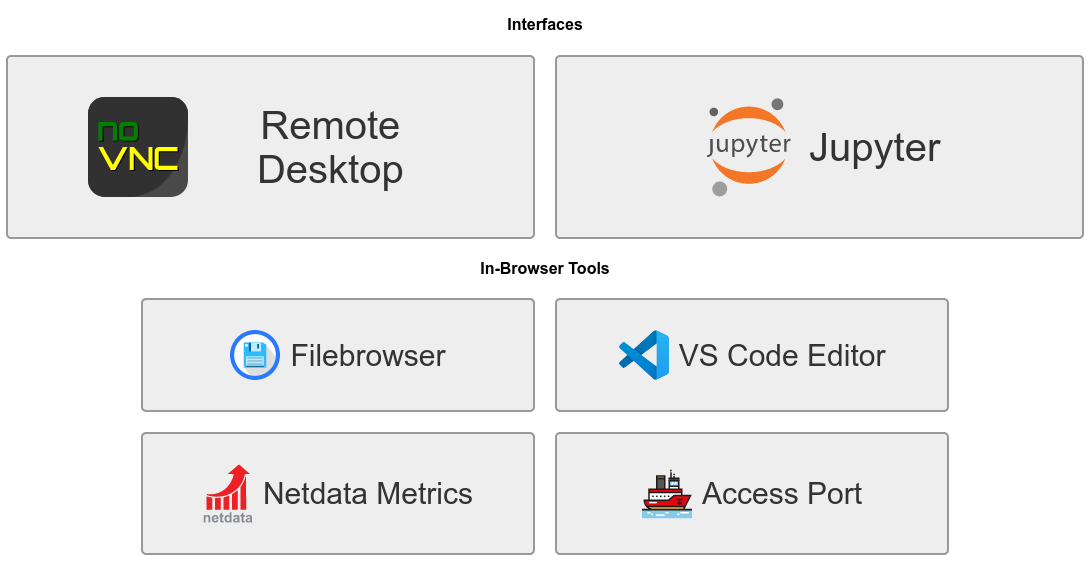
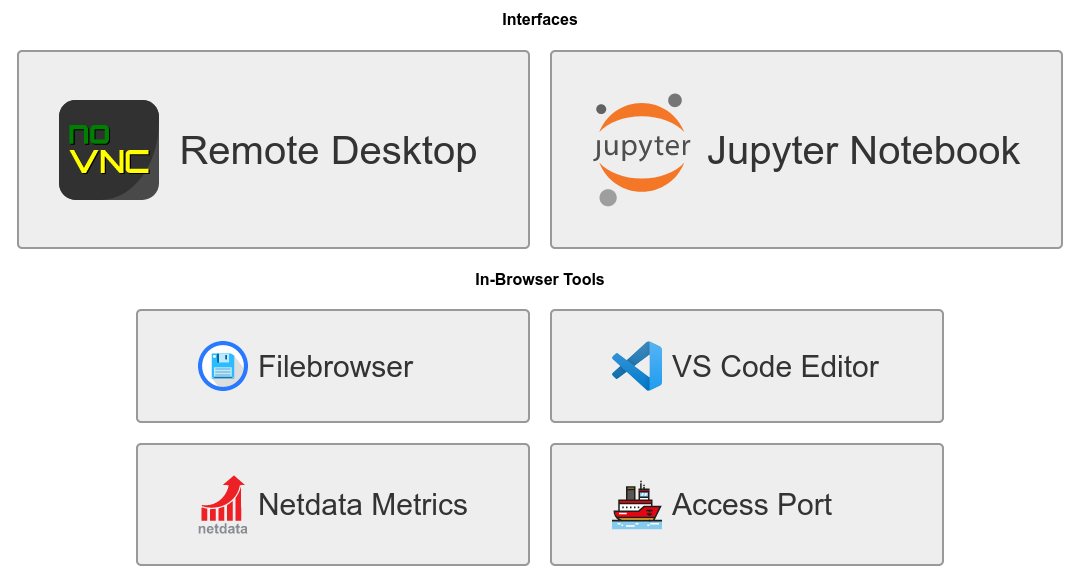
feat(remote-desktop-en): sections, update landing page

diff --git a/docs/en/1-Experiments/Remote-Desktop.md b/docs/en/1-Experiments/Remote-Desktop.md
@@ -1,43 +1,61 @@
-# Remote-Desktop
+# Remote Desktop
 
-![The Remote Desktop](../images/rd_desktop.png)
+![Remote Desktop](../images/rd_desktop.png)
 
-The Remote Desktop provides an in-browser GUI Ubuntu desktop experience as well
-as quick access to supporting tools.
+# What is Remote Desktop?
+
+Remote Desktop provides an in-browser GUI Ubuntu desktop experience as well as
+quick access to supporting tools. The operating system is
+[**Ubuntu**](https://ubuntu.com/about) **18.04** with the
+[**XFCE**](https://www.xfce.org/about) desktop environment.
+
+## Versions
 
 Two versions of Remote Desktop are available. _R_ includes R and RStudio.
 _Geomatics_ extends _R_ with QGIS and various supporting libraries. You may
 further customize your Remote Desktop workspace to suit your specific needs and
 preferences.
 
-_pip_, _conda_, and _npm_ are available to install various packages.
+## Customization
+
+_pip_, _conda_, _npm_ and _yarn_ are available to install various packages.
+
+# Accessing the Remote Desktop
 
 To launch the Remote Desktop or any of its supporting tools, create a Notebook
 Server in [Kubeflow](./Kubeflow.md) and select one of the available versions in
-the image dropdown. Then, connect to access the landing page.
+the image dropdown. Then, click `Connect` to access the landing page.
 
 ![Landing Page](../images/rd_landing_page.png)
 
-_Remote Desktop_ brings you to the Desktop GUI. Click on the < on the left side
-of the screen to expand a panel with options such as fullscreen and clipboard
-access.
+_Remote Desktop_ brings you to the Desktop GUI through a noVNC session. Click on
+the < on the left side of the screen to expand a panel with options such as
+fullscreen and clipboard access.
 
 ![NoVNC Panel](../images/rd_novnc_panel.png)
 
-_Jupyter_ is a legacy interface that can be used to interact with Jupyter
-Notebooks until storage integration with [JupyterLab images](./Jupyter.md)
-becomes available.
+## Legacy Interface: Jupyter Notebook
 
-![Jupyter](../images/rd_jupyter.png)
+_Jupyter Notebook_ is a legacy interface for managing Jupyter Notebooks until
+storage integration with the [JupyterLab images](./Jupyter.md) becomes
+available.
+
+![Jupyter Notebook](../images/rd_jupyter.png)
 
 You can access other tools and interfaces with the _Open Tool_ button in the top
 right corner, or by returning to the landing page.
 
 ![Open Tool](../images/rd_open_tools.png)
 
+# In-browser Tools
+
+## VS Code
+
 _VS Code_ brings you to the Visual Studio Code IDE.
 
 ![VS Code](../images/rd_vs_code.png)
+
+## Netdata
 
 _Netdata_ delivers in-depth interactive resource monitoring. Charts can be
 panned by dragging them. You can also zoom in and out with
@@ -46,11 +64,15 @@ dragging.
 
 ![Netdata](../images/rd_netdata.png)
 
+## Filebrowser
+
 _Filebrowser_ can be used to quickly explore the file system of the Remote
 Desktop as well as to transfer files between the Remote Desktop and your
 computer.
 
 ![Filebrowser](../images/rd_filebrowser.png)
+
+## Access Port
 
 Finally, _Access Port_ provides in-browser access to anything served on a
 specified port inside the Remote Desktop (internally accessible at e.g.
@@ -64,6 +86,8 @@ namespace collaborators can also access this page if you send them the URL.
 _Example: Accessing the Supervisor API at port 8059_
 
 ![Supervisor API](../images/rd_supervisor.png)
+
+# Footnotes
 
 Remote Desktop is based on
 [ml-tooling/ml-workspace](https://github.com/ml-tooling/ml-workspace).
